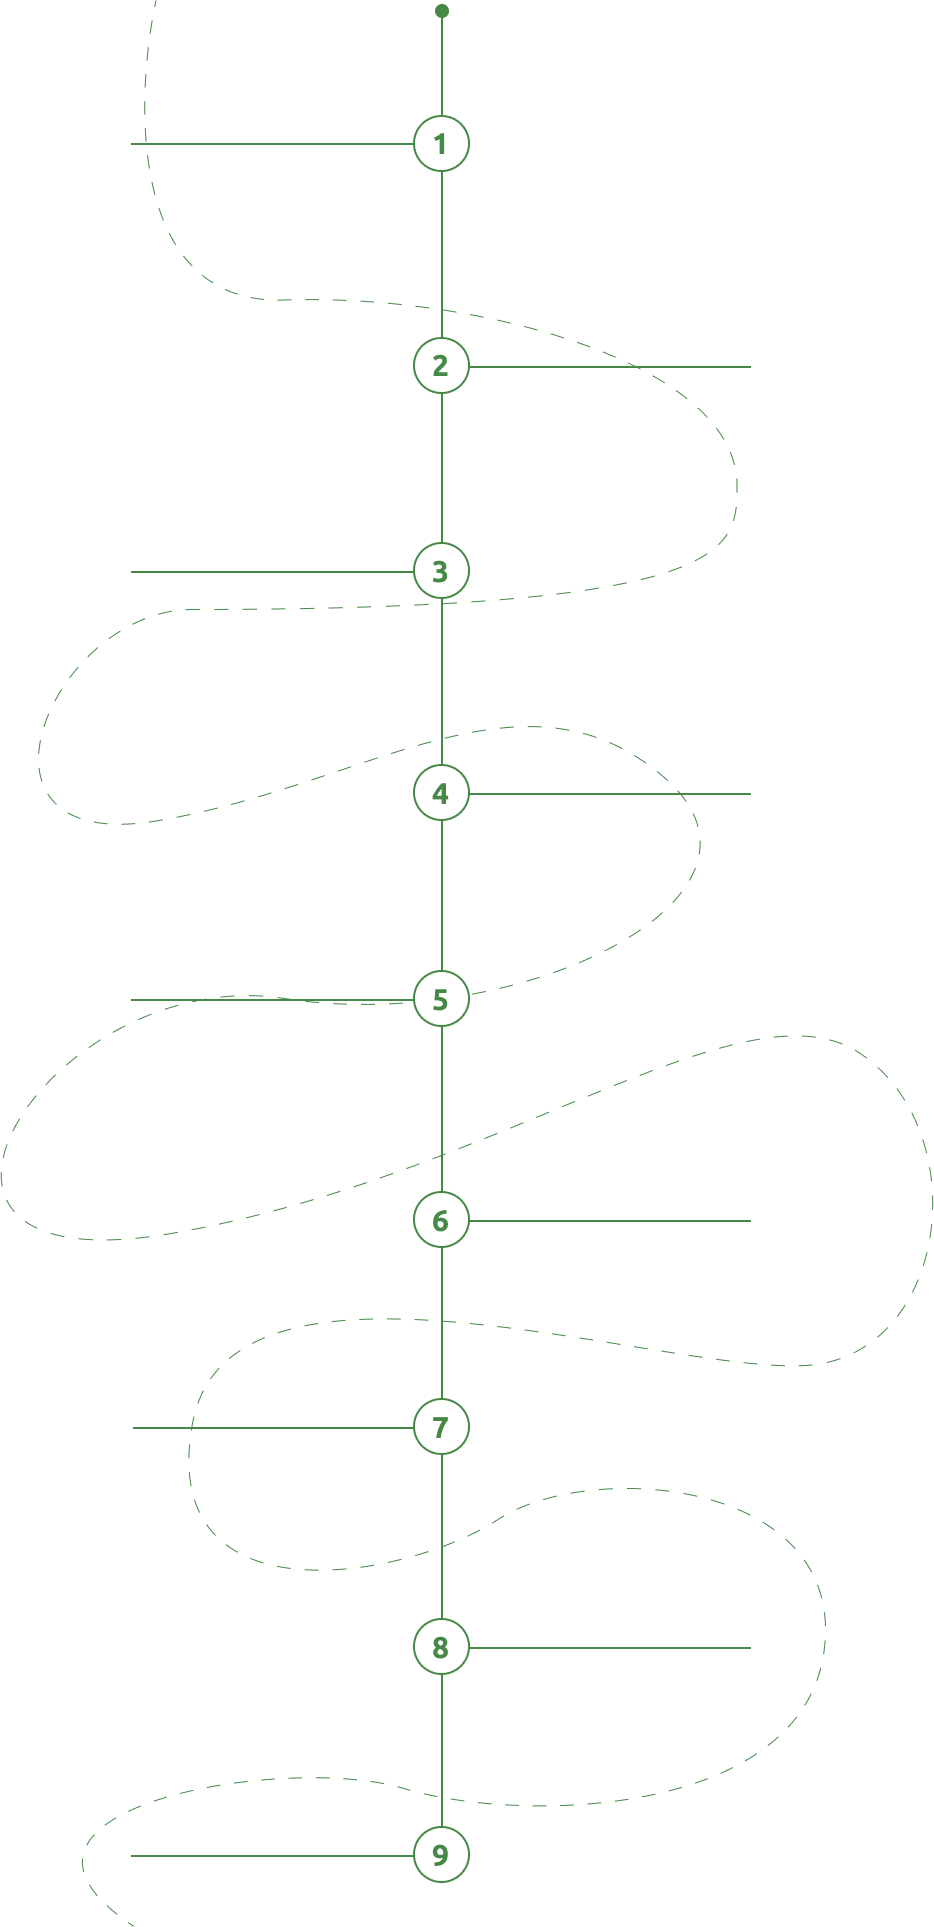
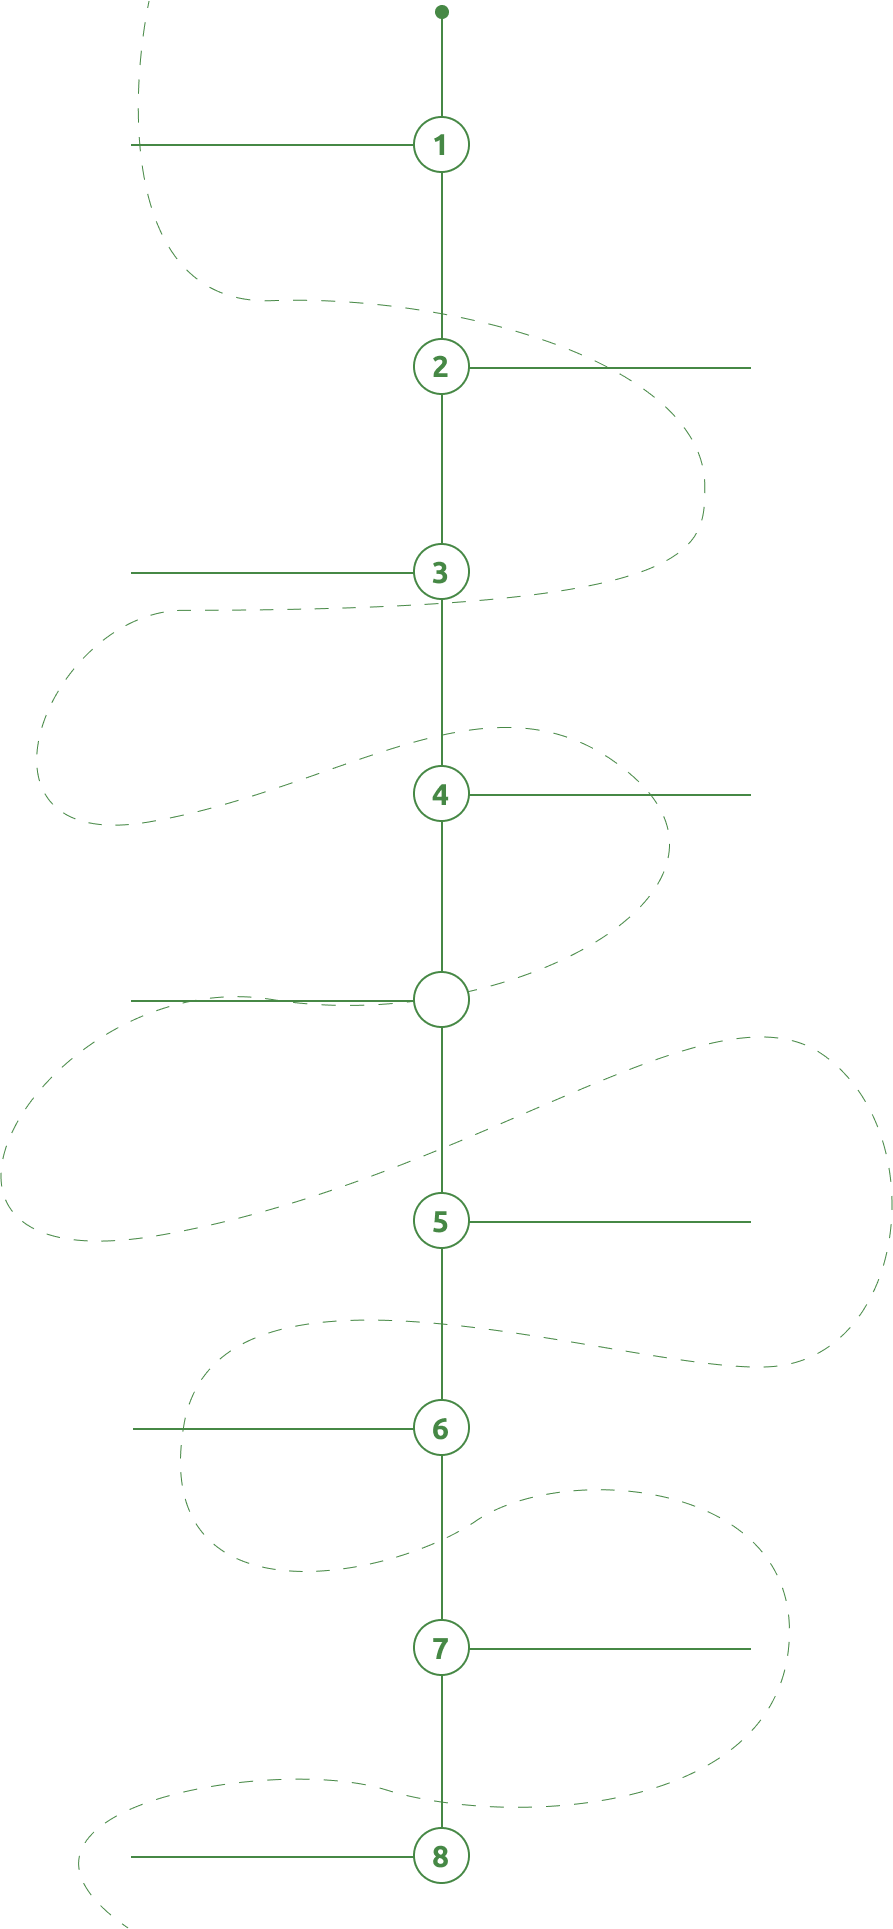
creating tree for the program page and updating the image

Changed region(s): [[0.4233, 0.0, 0.5442, 0.9964], [0.9978, 0.6227, 1.0, 0.6539]]

diff --git a/src/components/Program.js b/src/components/Program.js
@@ -21,20 +21,93 @@ const TreeContainer = styled.div`
 `;
 
 const TreeImage = styled.img`
-	width: 65vw;
+	height: 2036px;
+
+	@media screen and (max-width: 992px) {
+		display: none;
+	  }
 `;
 
-const LeftBox = styled.div`
-	margin: 100px 0px 100px 0px;
-`;
-const RightBox = styled.div`
-	margin: 100px 0px 100px 0px;
-`;
-const Box = styled.div`
+const ViikotLeft = styled.div` 
 	display: flex;
-	justify-content: center;
-	height: 100%;
+    justify-content: flex-end;
+	width: 295px;
+	height: 225px;
+	margin-top: 0px;
+	border-style: solid;
+	border-width: 3px;
+	border-color: #468845;
+	border-radius: 20px;
+	color: #fff;
+	font-size: 20px;
+	line-height: 175%;
+	font-weight: 400;
+	text-align: center;
+	background-color: white;
+	z-index: 3;
 `;
+
+const Viikot = styled.div` 
+	width: 295px;
+	height: 225px;
+    margin-top: 0px;
+    border-style: solid;
+    border-width: 3px;
+    border-color: #468845;
+    border-radius: 20px;
+    color: #fff;
+    font-size: 20px;
+    line-height: 175%;
+    font-weight: 400;
+    text-align: center;
+	background-color: white;
+	z-index: 3;
+`;
+
+const Box = styled.div`
+display: block;
+padding-top: 100px;
+-webkit-box-pack: center;
+-webkit-justify-content: center;
+-ms-flex-pack: center;
+justify-content: center;
+`;
+
+const Structure = styled.div`
+	display: -webkit-box;
+	display: -webkit-flex;
+	display: -ms-flexbox;
+	display: flex;
+	-webkit-box-pack: center;
+	-webkit-justify-content: center;
+	-ms-flex-pack: center;
+	justify-content: center;
+	box-sizing: border-box;
+	flex-direction: column;
+`;
+
+
+const Right = styled.div`
+	display: flex;
+	justify-content: flex-end;
+	padding-right: 120px;
+
+	@media screen and (max-width: 992px) {
+		justify-content: center;
+		padding-right: 0px;
+	  }
+`;
+
+const Left = styled.div`
+	padding-left: 120px;
+
+	@media screen and (max-width: 992px) {
+		justify-content: center;
+		padding-left: 0px;
+	  }
+`;
+
+
 
 function Program() {
 	return (
@@ -52,40 +125,57 @@ function Program() {
 			</Banner>
 			<TreeContainer className='container-fluid'>
 				<div className='row' style={{ display: 'flex', alignItems: 'center', flexDirection: 'column' }}>
-					<TreeImage src='./Tree.png'>
-					</TreeImage>
-					<Box className='container'>
-						<div className='row'>
-							<div className='col-md-6'>
-								<LeftBox className='row' >
-									<div>Hello1</div>
-								</LeftBox>
-								<LeftBox className='row'>
-									<div>Hello1</div>
-								</LeftBox>
-								<LeftBox className='row'>
-									<div>Hello1</div>
-								</LeftBox>
-								<LeftBox className='row'>
-									<div>Hello1</div>
-								</LeftBox>
-								<LeftBox className='row'>
-									<div>Hello1</div>
-								</LeftBox>
-								<RightBox className='row'>
-									<div>Hello2</div>
-								</RightBox>
-								<RightBox className='row'>
-									<div>Hello2</div>
-								</RightBox>
-								<RightBox className='row'>
-									<div>Hello2</div>
-								</RightBox>
-								<RightBox className='row'>
-									<div>Hello2</div>
-								</RightBox>
+					<Box className='container-fluid'>
+						<Structure>
+						<Left className='row'>
+								<Viikot>
+									Yo
+								</Viikot>
+							</Left>
+							<Right className='row'>
+								<ViikotLeft>
+									Yo
+								</ViikotLeft>
+							</Right>
+							<Left className='row'>
+								<Viikot>
+									Yo
+								</Viikot>
+							</Left>
+							<Right className='row'>
+								<ViikotLeft>
+									Yo
+								</ViikotLeft>
+							</Right>
+							<Left className='row'>
+								<Viikot>
+									Yo
+								</Viikot>
+							</Left>
+							<Right className='row'>
+								<ViikotLeft>
+									Yo
+								</ViikotLeft>
+							</Right>
+							<Left className='row'>
+								<Viikot>
+									Yo
+								</Viikot>
+							</Left>
+							<Right className='row'>
+								<ViikotLeft>
+									Yo
+								</ViikotLeft>
+							</Right>
+							<Left className='row'>
+								<Viikot>
+									Yo
+								</Viikot>
+							</Left>
+							<div style={{display: "flex", position: "absolute", width: "99%", height: '2100px', justifyContent: "center"}}>
+							<TreeImage src='Tree.png' height='2033px' />
 							</div>
-						</div>
+						</Structure>
 					</Box>
 				</div>
 			</TreeContainer>
